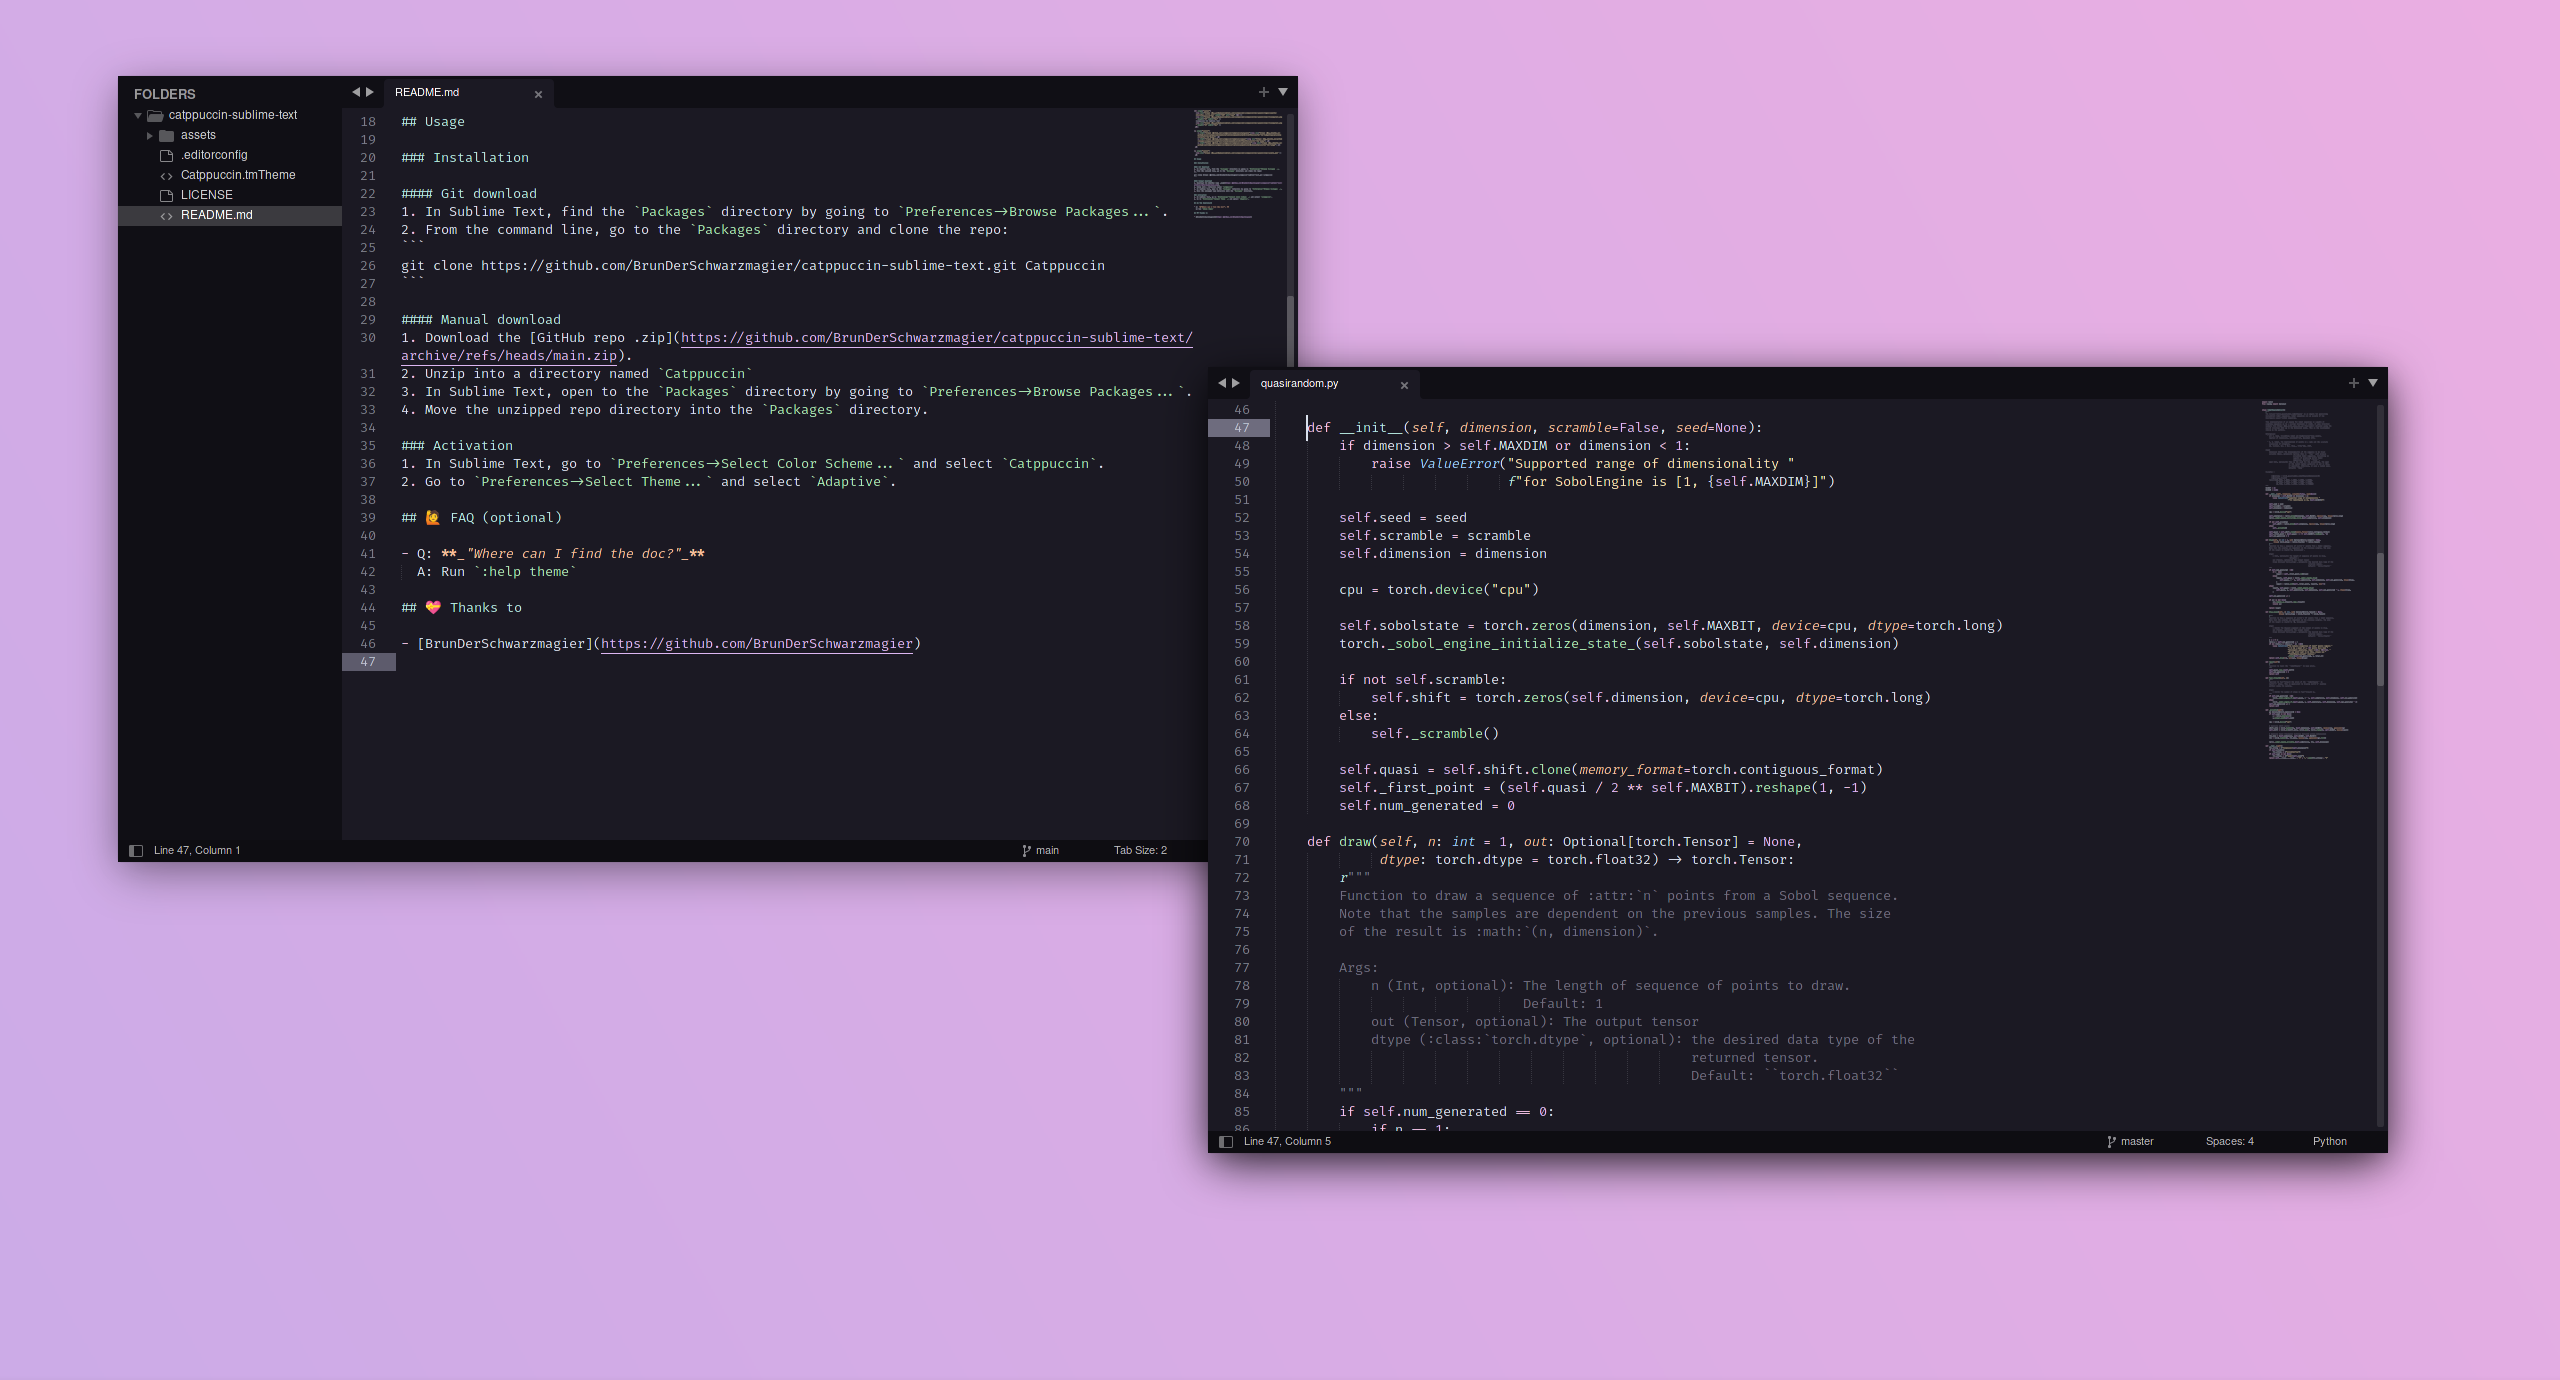
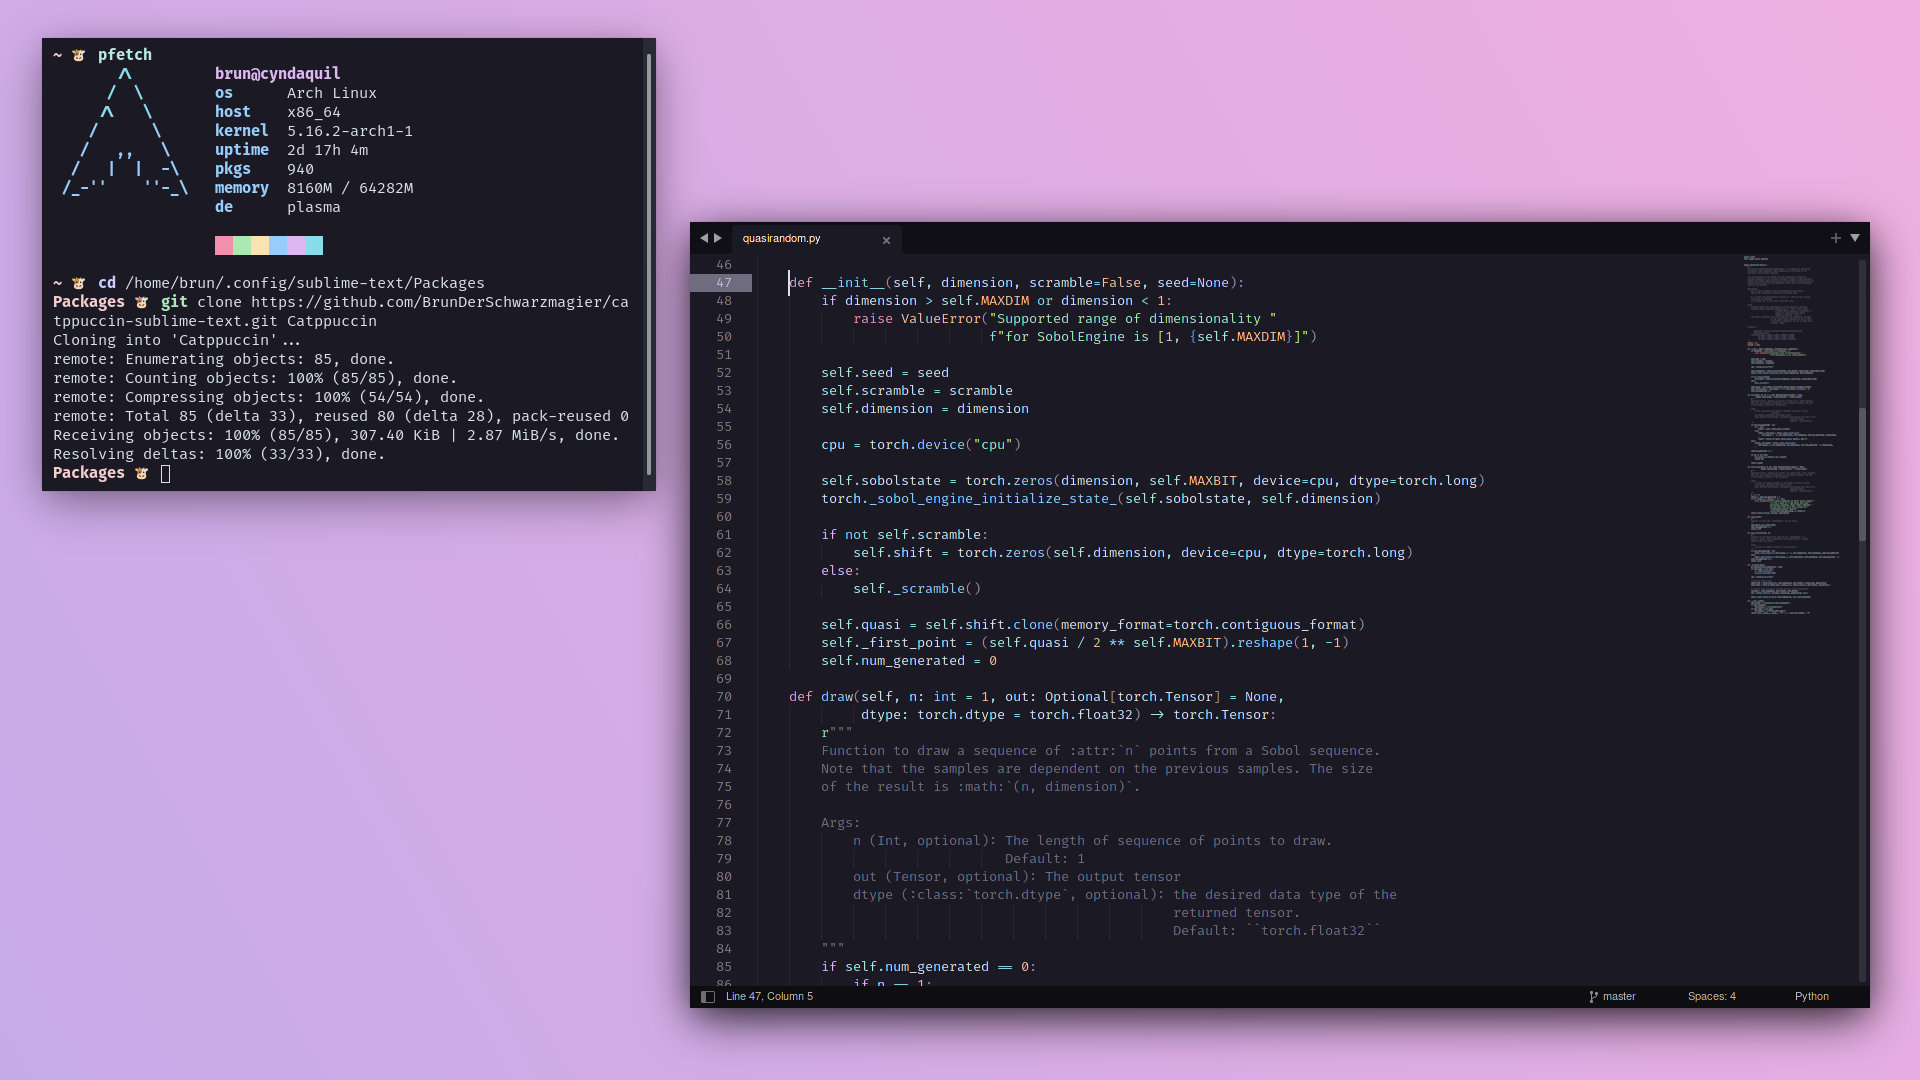
update url and screenshot

diff --git a/README.md b/README.md
@@ -12,7 +12,7 @@
 </p>
 
 <p align="center">
-  <img src="https://raw.githubusercontent.com/BrunDerSchwarzmagier/catppuccin-sublime-text/main/assets/ss.png"/>
+  <img src="https://raw.githubusercontent.com/BrunDerSchwarzmagier/sublime-text/main/assets/ss.png"/>
 </p>
 
 ## Usage
@@ -23,11 +23,11 @@
 1. In Sublime Text, find the `Packages` directory by going to `Preferences->Browse Packages...`.
 2. From the command line, go to the `Packages` directory and clone the repo:
 ```
-git clone https://github.com/BrunDerSchwarzmagier/catppuccin-sublime-text.git Catppuccin
+git clone https://github.com/BrunDerSchwarzmagier/sublime-text.git Catppuccin
 ```
 
 #### Manual download
-1. Download the [GitHub repo .zip](https://github.com/BrunDerSchwarzmagier/catppuccin-sublime-text/archive/refs/heads/main.zip).
+1. Download the [GitHub repo .zip](https://github.com/BrunDerSchwarzmagier/sublime-text/archive/refs/heads/main.zip).
 2. Unzip into a directory named `Catppuccin`
 3. In Sublime Text, open the `Packages` directory by going to `Preferences->Browse Packages...`.
 4. Move the `Catppuccin` directory into the `Packages` directory.
